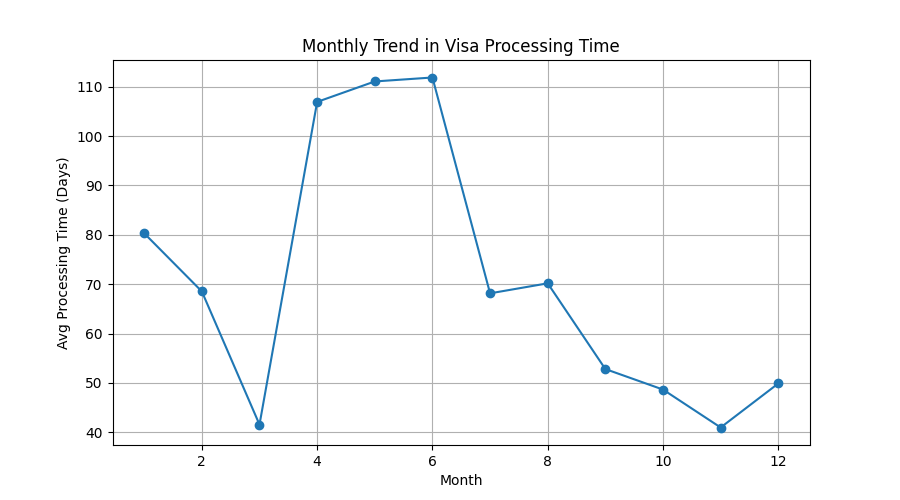
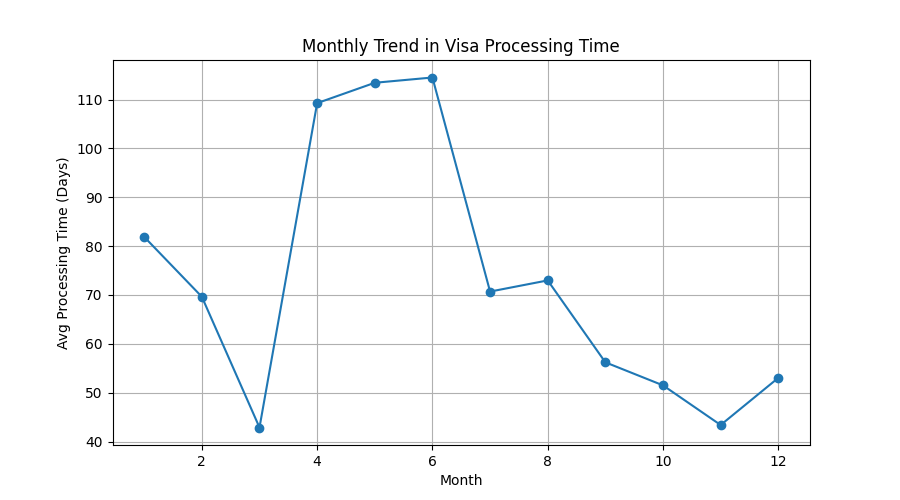
Replaced groupby apply with transform for safe group-wise outlier capping

diff --git a/src/eda.py b/src/eda.py
@@ -71,17 +71,21 @@ def main():
 
         df = df[df["processing_time_days"] >= 0]
         
-        Q1 = df["processing_time_days"].quantile(0.25)
-        Q3 = df["processing_time_days"].quantile(0.75)
-        IQR = Q3 - Q1
+        def cap_series(series):
+            Q1 = series.quantile(0.25)
+            Q3 = series.quantile(0.75)
+            IQR = Q3 - Q1
 
-        lower_bound = Q1 - 1.5 * IQR
-        upper_bound = Q3 + 1.5 * IQR
+            lower = Q1 - 1.5 * IQR
+            upper = Q3 + 1.5 * IQR
 
-        print("Lower Bound:", lower_bound)
-        print("Upper Bound:", upper_bound)
-        
-        df["processing_time_days"] = df["processing_time_days"].clip(lower_bound, upper_bound)
+            return series.clip(lower, upper)
+
+        df["processing_time_days"] = (
+            df.groupby("visa_status")["processing_time_days"]
+            .transform(cap_series)
+        )
+
 
         categorical_cols = ["visa_class", "visa_status", "work_state"]
 
